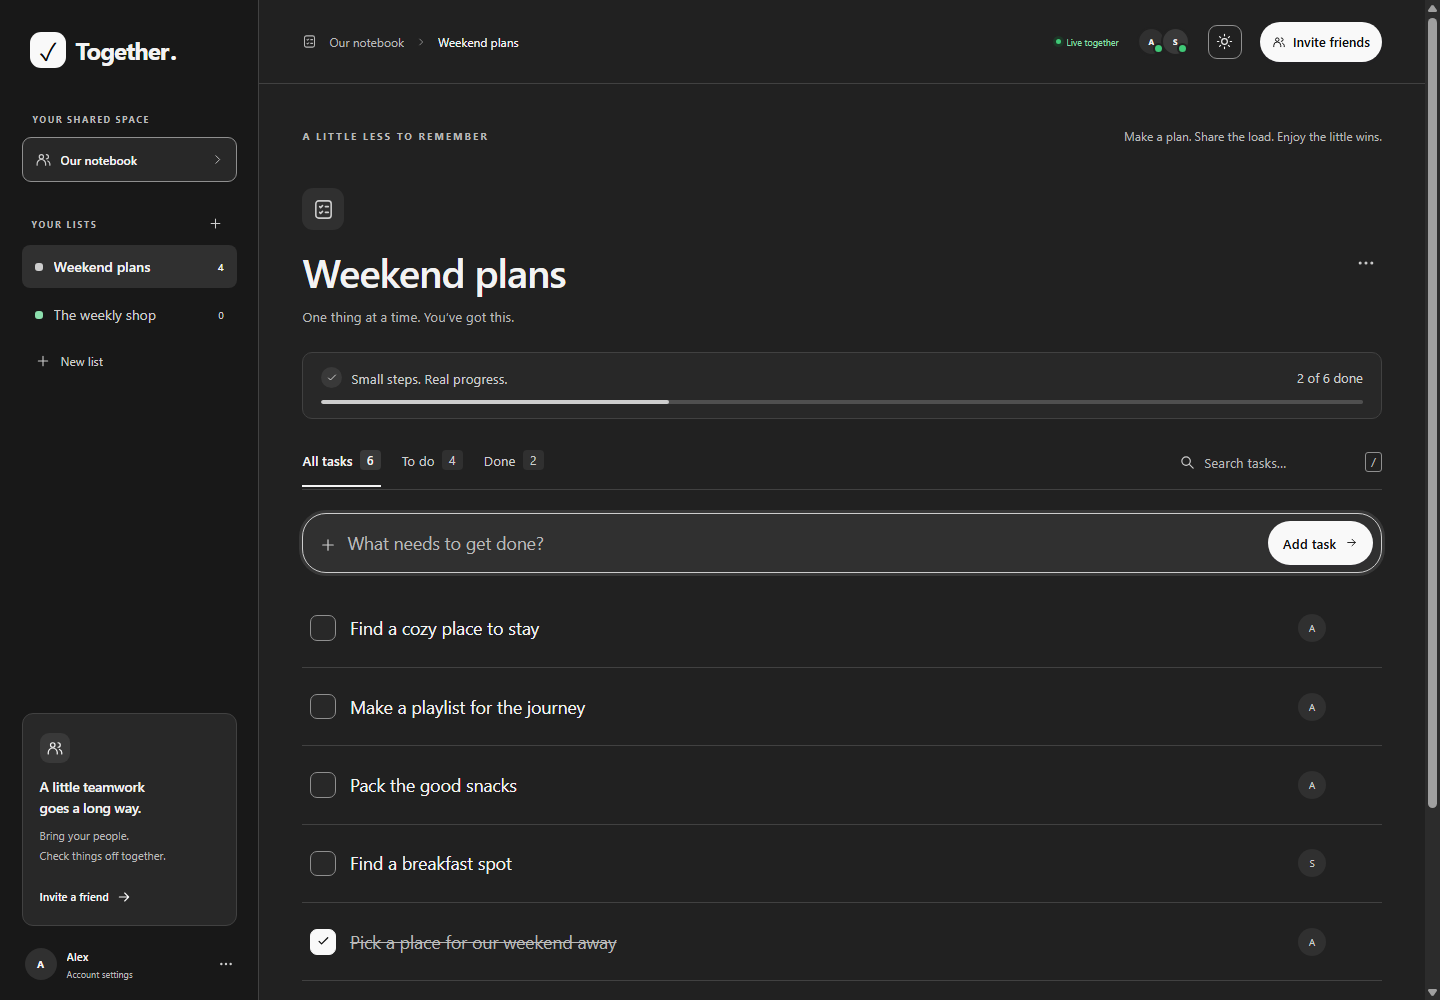
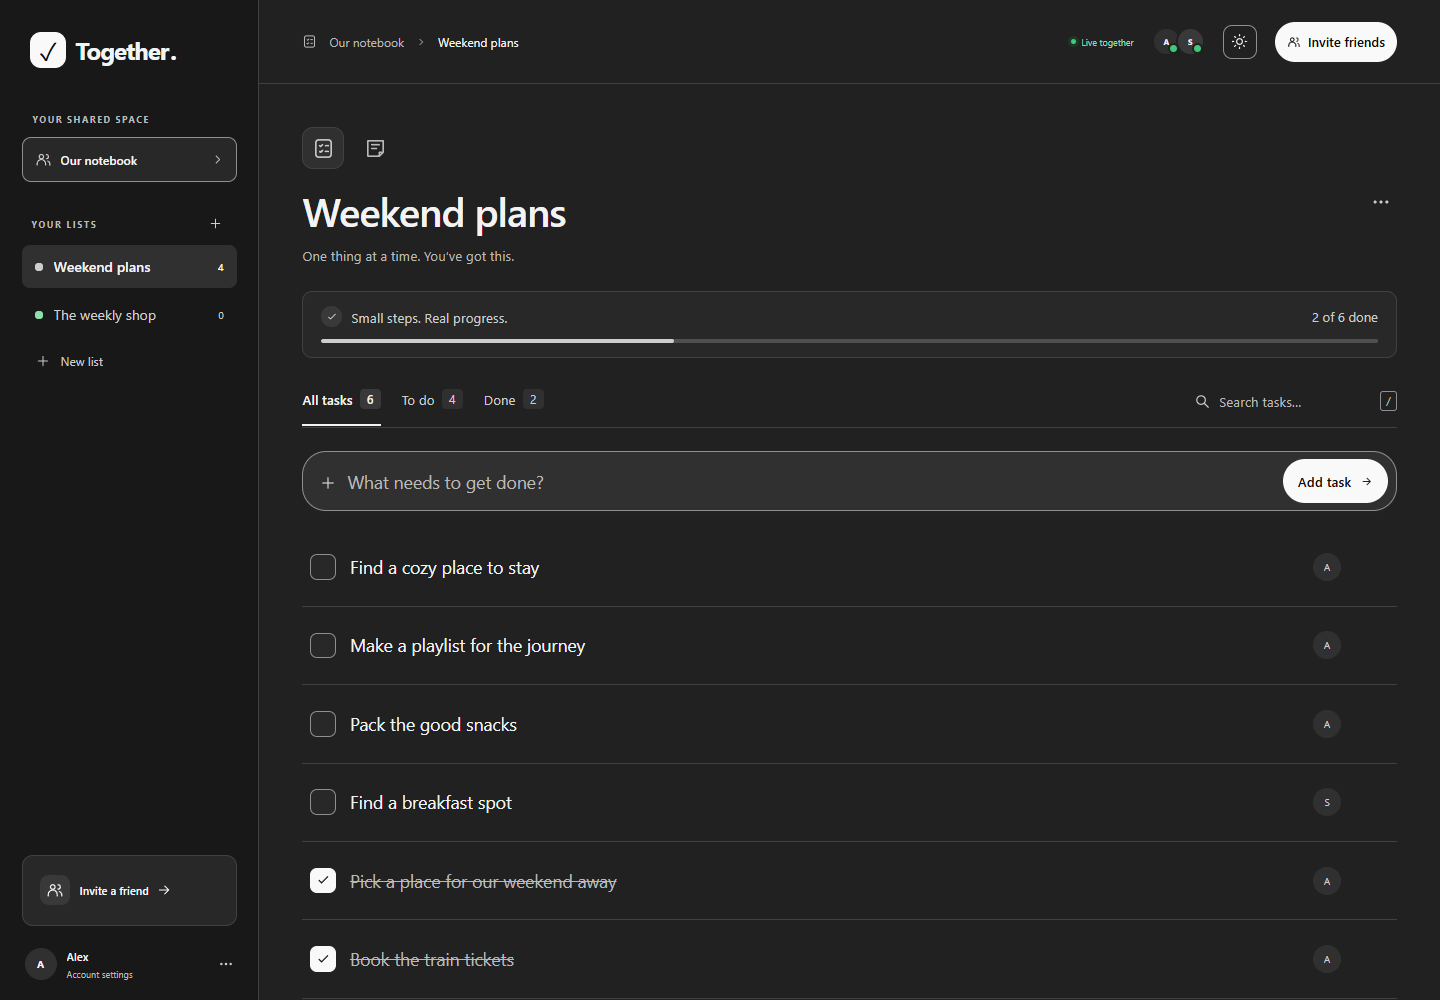
docs: update screenshots for current interface

diff --git a/README.md b/README.md
@@ -31,6 +31,10 @@ Text sheets support up to 100,000 characters each. Keep the tab open until it sa
 | --- | --- |
 | <img src="docs/screenshots/desktop-dark.png" alt="Shared to-do list on desktop in dark mode" width="640"> | <img src="docs/screenshots/mobile-light.png" alt="Shared to-do list on mobile in light mode" width="200"> |
 
+Shared text document with multiple sheets:
+
+<img src="docs/screenshots/desktop-text-dark.png" alt="Shared text document on desktop in dark mode with saved trip notes and multiple sheet tabs" width="960">
+
 ## License
 
 [MIT](LICENSE) · Copyright © 2026 ValiOff8.
